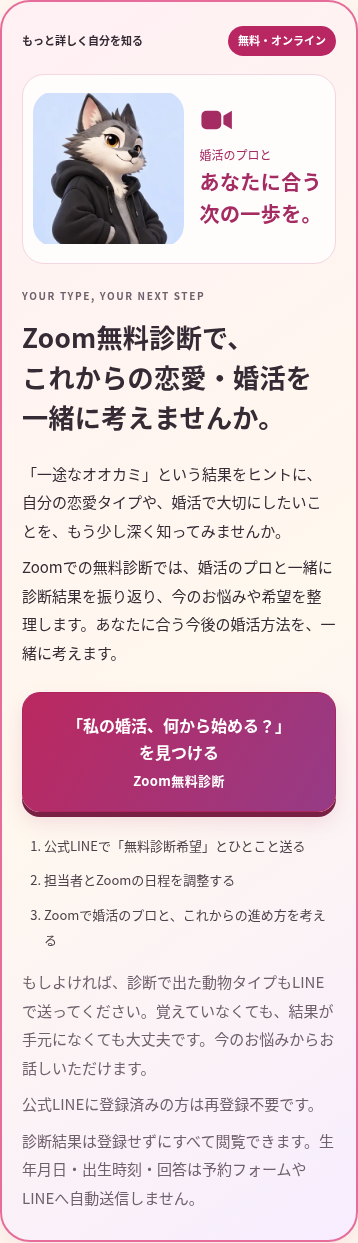
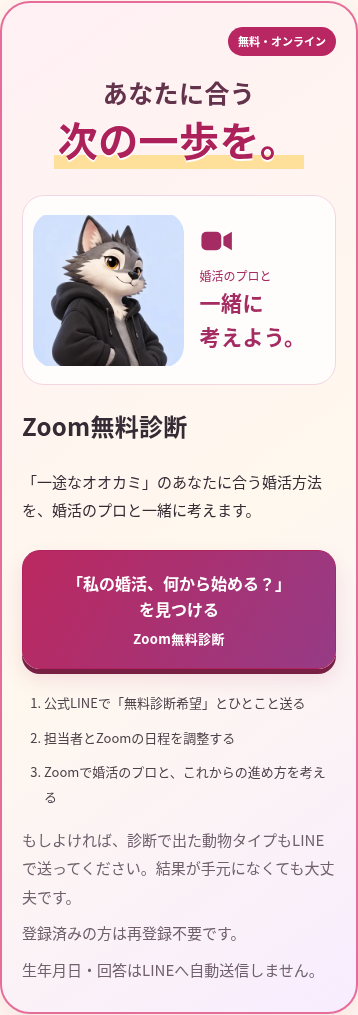
Emphasize next steps, apply supplied brand design and simplify result copy

diff --git a/index.html b/index.html
@@ -179,6 +179,17 @@ button:disabled{opacity:.55;cursor:default;box-shadow:none}
 .brand-tagline{display:block;margin-top:2px;font-size:10px;font-weight:700;line-height:1.5;letter-spacing:.01em;color:#292327;white-space:nowrap}
 .unic-brand-link .brand-lockup{width:160px;max-width:calc(100% - 48px);margin:0;flex:0 1 160px;min-width:0}
 .unic-brand-link .brand-tagline{font-size:7.5px}
+/* Clear visual emphasis for the two next-step messages. */
+.next-action-section{padding:26px 20px;border:2px solid #d8588b;border-radius:28px;background:linear-gradient(145deg,#fff0f4,#fff8e6 60%,#f5ebff);box-shadow:0 10px 28px #b035631a;color:#392a33}
+.next-action-label{display:inline-block;background:#b62765;color:white!important;border-radius:99px;padding:6px 13px;font-size:12px!important;font-weight:700;letter-spacing:.05em;margin-bottom:14px!important}
+.next-action-section>h2{padding:0;border:0;font-size:29px;line-height:1.55;color:#a5265e;letter-spacing:.015em;margin-bottom:18px;text-wrap:balance}
+.next-action-section .action{padding:22px 18px;border:0;border-radius:20px;background:#fffdfc;box-shadow:0 4px 0 #eed1dc}
+.next-action-section .action h3{font-size:27px;line-height:1.6;color:#562d47;font-weight:900;margin:0 0 16px;text-wrap:balance}
+.next-action-section .action p{font-size:15px;line-height:1.95;color:#58454f}.next-action-section>.soft{font-size:12px;line-height:1.9;color:#79616f;margin-top:18px}
+.zoom-next-title{text-align:center;margin:4px 0 22px;line-height:1.45;letter-spacing:.025em}.zoom-next-title>span{display:block;font-size:25px;font-weight:800;color:#63324b}.zoom-next-title>strong{display:inline-block;font-size:40px;font-weight:900;color:#ad215b;background:linear-gradient(transparent 72%,#ffe09a 72%,#ffe09a 94%,transparent 94%);padding:0 4px 5px;text-shadow:0 2px 0 white}
+.consult-card h3{font-size:24px;line-height:1.6}.zoom-speech strong{font-size:21px}.unic-brand-link .service-logo-image{display:block;width:100%;max-width:100%;height:auto;border-radius:8px}.unic-brand-link.service-brand-panel{display:block;padding:18px 12px;max-width:100%;min-height:100px;background:white}.unic-brand-link.service-brand-panel .brand-open{position:absolute;right:9px;bottom:9px;width:28px;height:28px;min-width:28px;font-size:18px}.unic-brand-link{position:relative}
+@media(max-width:350px){.next-action-section{padding:22px 15px}.next-action-section>h2{font-size:26px}.next-action-section .action{padding:20px 15px}.next-action-section .action h3{font-size:24px}.zoom-next-title>span{font-size:23px}.zoom-next-title>strong{font-size:34px}}
+.next-action-section>h2>span,.next-action-section>h2>strong{display:block}.next-action-section>h2>span{font-size:27px}.next-action-section>h2>strong{font-size:34px;line-height:1.5}.zoom-banner{justify-content:flex-end}
 </style></head>
 <body><div id="app"></div>
 <script src="site-config.js"></script>
@@ -617,7 +628,7 @@ function topMatches(u){
 }
 
 /* ===== UI ===== */
-const IMGS={"01": "assets/type-01.webp", "02": "assets/type-02.webp", "03": "assets/type-03.webp", "04": "assets/type-04.webp", "05": "assets/type-05.webp", "06": "assets/type-06.webp", "07": "assets/type-07.webp", "08": "assets/type-08.webp", "09": "assets/type-09.webp", "10": "assets/type-10.webp", "11": "assets/type-11.webp", "12": "assets/type-12.webp", "logo": "assets/logo.jpg"};
+const IMGS={"01": "assets/type-01.webp", "02": "assets/type-02.webp", "03": "assets/type-03.webp", "04": "assets/type-04.webp", "05": "assets/type-05.webp", "06": "assets/type-06.webp", "07": "assets/type-07.webp", "08": "assets/type-08.webp", "09": "assets/type-09.webp", "10": "assets/type-10.webp", "11": "assets/type-11.webp", "12": "assets/type-12.webp", "logo": "assets/logo.jpg", "serviceLogo": "assets/unic-meet-logo.webp"};
 Q.push({s:'SERVICE',d:'marriage',t:'結婚を希望する時期を教えてください。',options:['1年以内に結婚したい','2年以内に結婚したい','いずれ結婚したいが、急いでいない','まだ決めていない','今は結婚を希望していない']});
 Q.push({s:'SERVICE',d:'concern',t:'今の恋愛・婚活で、一番気になっていることは？',options:['同じ恋愛パターンを繰り返してしまう','自信や自分の魅力の伝え方に悩んでいる','新しい出会いを増やしたい','結婚に向けた進め方を相談したい','今は大きな悩みはなく、まず自分を知りたい']});
 const TYPE_ORDER=[0,2,3,5,6,9,10,21];
@@ -657,7 +668,7 @@ function intro(){
   <button class="btn" data-a="start">自分の恋愛・婚活タイプを診断する</button>
   <a class="btn line" target="_blank" rel="noopener" href="${lineHref(toolText())}">この診断をLINEで送る</a>
   <button class="btn ghost small" data-a="copytool">リンク文をコピー</button>
-  <p class="note">※この診断は、恋愛傾向を楽しく知るためのオリジナルコンテンツです。心理学的に検証された心理検査や、医学的・科学的診断ではありません。占い（四柱推命）も、未来や相性を断定するものではなく、自己理解のヒントとして使います。</p></div>`;
+  </div>`;
 }
 function quiz(){
   const pos=st.pos,qi=ORDER[pos],q=Q[qi],cur=st.ans[qi],choices=q.options||CHOICES;
@@ -680,9 +691,9 @@ function birthForm(){
   const b=st.birth||{};
   return `<div class="hero"><h1 class="catch" style="font-size:22px">STEP 1：生年月日を入力</h1><p class="lead">このあと、恋愛傾向・価値観8問と、結婚希望時期・現在のお悩み各1問に回答します。</p></div>
   <div class="form"><div class="row"><label for="bd">生年月日（西暦・月・日／必須）</label><input id="bd" type="date" required min="1900-01-01" aria-describedby="birth-purpose birth-error" value="${b.date||''}" max="${todayJST()}"></div>
-  <p id="birth-purpose" class="note">生年月日・出生時刻・出生地のタイムゾーンは四柱推命の補足に使用します。入力情報はこの画面のメモリ内でのみ扱い、サーバー送信・ブラウザ保存・共有URLへの記載は行いません。</p>
+  <p id="birth-purpose" class="note">生年月日・出生時刻は四柱推命に使用します。保存・送信はしません。</p>
   <div class="row"><label for="bt">出生時刻（任意）</label><input id="bt" type="time" value="${b.time||''}" ${b.noTime!==false?'disabled':''}><label class="chk"><input id="bn" type="checkbox" ${b.noTime!==false?'checked':''}> 不明</label></div>
-  <div class="row"><label for="bz">出生地のタイムゾーン</label><select id="bz">${[['Asia/Tokyo','日本（Asia/Tokyo）'],['Asia/Seoul','韓国（Asia/Seoul）'],['Asia/Shanghai','中国（Asia/Shanghai）'],['Asia/Taipei','台湾（Asia/Taipei）'],['America/New_York','ニューヨーク'],['America/Los_Angeles','ロサンゼルス'],['Europe/London','ロンドン'],['Europe/Paris','パリ'],['Australia/Sydney','シドニー'],['UTC','UTC'],['other','その他（IANA名を入力）']].map(([v,l])=>`<option value="${v}" ${v===(b.zone||'Asia/Tokyo')?'selected':''}>${l}</option>`).join('')}</select><input id="bz-other" type="text" placeholder="例：Pacific/Honolulu" aria-label="その他のタイムゾーン" style="display:none"></div><p class="note">出生地の時計の時刻を入力してください。夏時間は地域・日付に応じて計算します。出生時刻不明の場合は時柱を出さず、節入り当日は年柱・月柱の候補を表示します。動物タイプは質問への回答だけで決まります。</p>
+  <div class="row"><label for="bz">出生地のタイムゾーン</label><select id="bz">${[['Asia/Tokyo','日本（Asia/Tokyo）'],['Asia/Seoul','韓国（Asia/Seoul）'],['Asia/Shanghai','中国（Asia/Shanghai）'],['Asia/Taipei','台湾（Asia/Taipei）'],['America/New_York','ニューヨーク'],['America/Los_Angeles','ロサンゼルス'],['Europe/London','ロンドン'],['Europe/Paris','パリ'],['Australia/Sydney','シドニー'],['UTC','UTC'],['other','その他（IANA名を入力）']].map(([v,l])=>`<option value="${v}" ${v===(b.zone||'Asia/Tokyo')?'selected':''}>${l}</option>`).join('')}</select><input id="bz-other" type="text" placeholder="例：Pacific/Honolulu" aria-label="その他のタイムゾーン" style="display:none"></div><p class="note">出生地の時刻・タイムゾーンを選んでください。時刻が分からなければ「不明」で進めます。</p>
   <p id="birth-error" role="alert" style="color:#c43858;margin:12px 0"></p>
   <button class="btn" data-a="go">10問の質問へ進む</button></div>`;
 }
@@ -703,7 +714,7 @@ function axesHTML(D,c){
 }
 function shichuHTML(sh,c){
   const S=STEMS.find(s=>s.k===sh.stem),years=[...new Set(sh.candidates.map(p=>p.year))].join(' ／ '),months=[...new Set(sh.candidates.map(p=>p.month))].join(' ／ ');
-  return sec('四柱推命から見る、生まれ持った性質',`<div class="calendar-card"><p class="eyebrow">YOUR BIRTH CHART</p><div class="birth-pillars">${[['年柱',years],['月柱',months],['日柱',sh.day],['時柱',sh.hour||'不明']].map(([label,value])=>`<div><small>${label}</small><strong>${value}</strong></div>`).join('')}</div><div class="stem-reading"><span class="stem-sign">${sh.stem}</span><div><p class="eyebrow">日干 ${S.k} ／ ${S.el}・${S.img}</p><h3>${S.nature}</h3></div></div><p><b>恋愛で大切にしやすいもの</b><br>${S.wants}。</p><p><b>心がほどける関係</b><br>${S.safe}。</p><p class="soft">四柱推命の伝統的な日干の象意に基づく一般的な補足です。心理質問による動物タイプとは別の情報で、性格や未来を断定するものではありません。</p>${!sh.known?'<p class="soft">出生時刻は不明のため、時柱は推測していません。</p>':''}${sh.ambiguous?'<p class="boundary-note">出生時刻不明の節入り日、または夏時間で時刻が重なるため、年柱・月柱は候補を併記しています。出生時刻が分かると絞り込めます。</p>':''}<details class="calendar-details"><summary>計算の基準を見る</summary><p>年柱は立春、月柱は各節の到達時刻で切り替え、入力したタイムゾーン（${esc(sh.zone)}）で比較しています。日柱は出生地の日付の0時で切り替えます。時柱は出生地の時計の時刻から算出し、23時台の時干も当日の日干を使用します。真太陽時補正は行っていません。流派により結果が異なる場合があります。</p><p>暦計算：lunar-javascript 1.7.7／対応範囲1900〜2099年。節入りの計算精度や流派差により、境界のごく近くでは専門家による確認もご検討ください。</p></details></div>`,c);
+  return sec('四柱推命から見る、生まれ持った性質',`<div class="calendar-card"><p class="eyebrow">YOUR BIRTH CHART</p><div class="birth-pillars">${[['年柱',years],['月柱',months],['日柱',sh.day],['時柱',sh.hour||'不明']].map(([label,value])=>`<div><small>${label}</small><strong>${value}</strong></div>`).join('')}</div><div class="stem-reading"><span class="stem-sign">${sh.stem}</span><div><p class="eyebrow">日干 ${S.k} ／ ${S.el}・${S.img}</p><h3>${S.nature}</h3></div></div><p><b>恋愛で大切にしやすいもの</b><br>${S.wants}。</p><p><b>心がほどける関係</b><br>${S.safe}。</p>${!sh.known?'<p class="soft">出生時刻不明のため、時柱は推測していません。</p>':''}${sh.ambiguous?'<p class="boundary-note">年柱・月柱が切り替わる日です。候補を併記しています。</p>':''}<details class="calendar-details"><summary>計算の基準を見る</summary><p>年柱は立春、月柱は各節の到達時刻で切り替え、入力したタイムゾーン（${esc(sh.zone)}）で比較しています。日柱は出生地の日付の0時で切り替えます。時柱は出生地の時計の時刻から算出し、23時台の時干も当日の日干を使用します。真太陽時補正は行っていません。流派により結果が異なる場合があります。</p><p>暦計算：lunar-javascript 1.7.7／対応範囲1900〜2099年。節入りの計算精度や流派差により、境界のごく近くでは専門家による確認もご検討ください。</p></details></div>`,c);
 }
 function safeHttps(value){try{const u=new URL(value);return u.protocol==='https:'?u.href:'';}catch{return '';}}
 function esc(s){return String(s).replace(/[&<>"']/g,x=>({'&':'&amp;','<':'&lt;','>':'&gt;','"':'&quot;',"'":'&#39;'}[x]));}
@@ -715,12 +726,11 @@ function recommendation(ans){
 function actionHTML(r){
   const rec=r.recommendation;
   const advice={coaching:['恋愛パターンを整理する時間','気になっているパターンを、出来事・気持ち・行動に分けて振り返ってみましょう。'],confidence:['あなたの魅力を言葉にすること','得意なことや大切にしている価値観を、ひとつずつ書き出すところから始めてみませんか。'],event:['新しい出会いへの小さな一歩','安心して参加できるイベントを一つ探すなど、無理のない範囲で出会いを増やしてみましょう。'],marriage:['結婚に向けた具体的な計画','希望時期に向けて、出会い方や活動ペースを整理してみましょう。無理なく進められる順番を考えるところから始めてみましょう。'],consult:['自分に合った次の一歩を見つけること','急いで結論を出さず、今の気持ちを整理することから始めてみましょう。']}[rec.main];
-  const notes={coaching:'恋愛パターンのお悩みを選んだ回答からの提案です。',confidence:'自信や魅力の伝え方のお悩みを選んだ回答からの提案です。',event:'出会いを増やしたいという回答からの提案です。',marriage:'結婚希望時期と進め方のお悩みを選んだ回答からの提案です。',consult:'今回の希望時期・お悩みの回答を整理するための提案です。'};
-  return sec('今のあなたに必要なのは',`<div class="action"><h3>${advice[0]}</h3><p>${advice[1]}</p></div><p class="soft">${notes[rec.main]}性格や悩みを断定するものではありません。</p>`);
+  return `<section class="sec next-action-section"><h2><span>今のあなたに</span><strong>必要なのは</strong></h2><div class="action"><h3>${advice[0]}</h3><p>${advice[1]}</p></div></section>`;
 }
 function consultationHTML(){
  const t=st.res?T[st.res.type.n]:null,booking=safeHttps(CONFIG.BOOKING_URL),line=safeHttps(CONFIG.LINE_OA_URL),url=booking||line;
- return sec('自分の恋愛タイプを、もっと詳しく知りたい方へ',`<div class="consult-card"><div class="zoom-banner"><span>もっと詳しく自分を知る</span><b>無料・オンライン</b></div><div class="zoom-art"><div class="zoom-character">${im(t?t.id:'01','168px')}</div><div class="zoom-speech"><svg viewBox="0 0 48 36" aria-hidden="true"><rect x="2" y="5" width="28" height="26" rx="7" fill="currentColor"/><path d="M33 12l12-7v26l-12-7z" fill="currentColor"/></svg><p>婚活のプロと<br><strong>あなたに合う<br>次の一歩を。</strong></p></div></div><p class="eyebrow">YOUR TYPE, YOUR NEXT STEP</p><h3>Zoom無料診断で、<br>これからの恋愛・婚活を<br>一緒に考えませんか。</h3><p>${t?`「${esc(t.nm)}」という結果をヒントに、`:''}自分の恋愛タイプや、婚活で大切にしたいことを、もう少し深く知ってみませんか。</p><p>Zoomでの無料診断では、婚活のプロと一緒に診断結果を振り返り、今のお悩みや希望を整理します。あなたに合う今後の婚活方法を、一緒に考えます。</p>${url?`<a class="btn" data-role="zoom-consult" href="${esc(url)}" target="_blank" rel="noopener"><span class="cta-q">「私の婚活、何から始める？」</span><span class="cta-verb">を見つける</span><span class="cta-sub">Zoom無料診断</span></a>`:'<button class="btn" data-role="zoom-consult" disabled><span class="cta-q">「私の婚活、何から始める？」</span><span class="cta-verb">を見つける</span><span class="cta-sub">Zoom無料診断</span></button><p class="soft">無料診断の受付リンクは準備中です。</p>'}<ol class="line-steps"><li>${booking?'予約ページから、希望の日程を選ぶ':'公式LINEで「無料診断希望」とひとこと送る'}</li><li>担当者とZoomの日程を調整する</li><li>Zoomで婚活のプロと、これからの進め方を考える</li></ol><p class="soft">もしよければ、診断で出た動物タイプも${line?'LINEで送ってください':'教えてください'}。覚えていなくても、結果が手元になくても大丈夫です。今のお悩みからお話しいただけます。</p>${!booking?'<p class="soft">公式LINEに登録済みの方は再登録不要です。</p>':''}<p class="soft">診断結果は登録せずにすべて閲覧できます。生年月日・出生時刻・回答は予約フォームやLINEへ自動送信しません。</p></div>`);
+ return sec('自分の恋愛タイプを、もっと詳しく知りたい方へ',`<div class="consult-card"><div class="zoom-banner"><b>無料・オンライン</b></div><div class="zoom-next-title"><span>あなたに合う</span><strong>次の一歩を。</strong></div><div class="zoom-art"><div class="zoom-character">${im(t?t.id:'01','168px')}</div><div class="zoom-speech"><svg viewBox="0 0 48 36" aria-hidden="true"><rect x="2" y="5" width="28" height="26" rx="7" fill="currentColor"/><path d="M33 12l12-7v26l-12-7z" fill="currentColor"/></svg><p>婚活のプロと<br><strong>一緒に<br>考えよう。</strong></p></div></div><h3>Zoom無料診断</h3><p>${t?`「${esc(t.nm)}」のあなたに合う`: 'あなたに合う'}婚活方法を、婚活のプロと一緒に考えます。</p>${url?`<a class="btn" data-role="zoom-consult" href="${esc(url)}" target="_blank" rel="noopener"><span class="cta-q">「私の婚活、何から始める？」</span><span class="cta-verb">を見つける</span><span class="cta-sub">Zoom無料診断</span></a>`:'<button class="btn" data-role="zoom-consult" disabled><span class="cta-q">「私の婚活、何から始める？」</span><span class="cta-verb">を見つける</span><span class="cta-sub">Zoom無料診断</span></button><p class="soft">無料診断の受付リンクは準備中です。</p>'}<ol class="line-steps"><li>${booking?'予約ページから、希望の日程を選ぶ':'公式LINEで「無料診断希望」とひとこと送る'}</li><li>担当者とZoomの日程を調整する</li><li>Zoomで婚活のプロと、これからの進め方を考える</li></ol><p class="soft">もしよければ、診断で出た動物タイプも${line?'LINEで送ってください':'教えてください'}。結果が手元になくても大丈夫です。</p>${!booking?'<p class="soft">登録済みの方は再登録不要です。</p>':''}<p class="soft">生年月日・回答はLINEへ自動送信しません。</p></div>`);
 }
 function compatPanel(u,j){
   const c=compat(u,j),t=T[j],C=CONF[c.low];
@@ -738,23 +748,23 @@ function resultHTML(){
   <div class="you">あなたは</div><h1>${t.e} ${t.nm}</h1><span class="kind">${t.kind}</span>
   <p class="cc">${t.catch}</p><div class="tags">${t.tags.map(x=>`<span>#${x}</span>`).join('')}</div>
   <p class="sub-type">あなたの中には「${sub.e} ${sub.nm}」の要素もあります</p></div>
-  <p class="note">回答から見える傾向の参考情報です。10問での診断精度は未検証で、性格や相性を断定するものではありません。</p>`;
+  `;
   h+=sec('LOVE TYPE 解説',`<p>${t.desc}</p><div class="box" style="margin-top:10px"><h3>付き合った後の特徴</h3><p>${t.after}</p><h3 style="margin-top:10px">相手からどう見られやすいか</h3><p>${t.seen}</p></div>`,c);
   h+=sec('あなたの恋愛の強み',`<div class="box">${ul(t.str)}</div>`,c);
   h+=sec('あなたの恋愛のクセ',`<div class="box">${ul(t.habit)}</div><div class="box"><h3>本人が気づきにくいクセ</h3><p>${t.unnoticed}</p></div>`,c);
 
 
   h+=sec('惹かれやすい相手',`<div class="box"><p>${t.attract}</p></div>`,c);
-  h+=sec('長期的な関係を築きやすい相手',`<div class="box"><p>${t.long}</p></div><p class="soft">惹かれやすい相手と、長く安心できる相手は、必ずしも同じではありません。</p>`,c);
+  h+=sec('長期的な関係を築きやすい相手',`<div class="box"><p>${t.long}</p></div>`,c);
   h+=sec('恋愛・結婚で注意したいこと',`<div class="box"><h3>苦戦しやすい相手</h3><p>${t.hard}</p><h3 style="margin-top:10px">結婚生活で大切にすること</h3><p>${t.marry}</p><h3 style="margin-top:10px">婚活で気をつけるポイント</h3><p>${t.kon}</p></div><div class="box"><h3>おすすめの最初の一歩</h3><p>${t.act}</p></div>`,c);
-  h+=sec('会話が合う人・違いを補い合える人',`<p class="soft">以下は動物タイプの一般的な特徴を比較した参考情報です。今回質問していないコミュニケーションの軸を個別に測定したものではありません。</p>`+matchList(M.talk,'話が合いやすいタイプ')+matchList(M.val,'価値観が近いタイプ')+matchList(M.comp,'自分と違うけれど、補い合いやすいタイプ')+`<p class="soft">相性は点数で決まるものではありません。「違い」は、知っていれば魅力にもなります。</p>`,c);
+  h+=sec('会話が合う人・違いを補い合える人',`<p class="soft">タイプの特徴から見た相性のヒントです。</p>`+matchList(M.talk,'話が合いやすいタイプ')+matchList(M.val,'価値観が近いタイプ')+matchList(M.comp,'自分と違うけれど、補い合いやすいタイプ'),c);
   h+=sec('気になるタイプとの相性をチェック',`<div class="ptable" id="pt">${T.map((x,j)=>`<button data-a="pick" data-j="${j}">${im(x.id)}<span>${AN[j]}</span></button>`).join('')}</div><div id="cmp"><p class="soft">タイプを選ぶと、会話・愛情表現・距離感・スピード・価値観を比べられます。</p></div>`,c);
   h+=shichuHTML(sh,c);
   h+=actionHTML(r);
   h+=consultationHTML();
-  h+=sec('診断結果をシェアする',`<a class="btn line" target="_blank" rel="noopener" href="${lineHref(resText(t))}">LINEで友だちに結果を送る</a><a class="btn ghost small" target="_blank" rel="noopener" href="${lineHref(toolText())}">診断そのものを友だちに送る</a><p class="soft">送る相手はLINEの画面で選べます。生年月日や個別の回答は共有しません。</p><button class="btn" data-a="instagram">Instagramでシェア</button><p class="soft">ストーリーズ用画像を作成します。Instagramへ自動投稿はしません。</p><div id="story-output" aria-live="polite"></div>`);
+  h+=sec('診断結果をシェアする',`<a class="btn line" target="_blank" rel="noopener" href="${lineHref(resText(t))}">LINEで友だちに結果を送る</a><a class="btn ghost small" target="_blank" rel="noopener" href="${lineHref(toolText())}">診断そのものを友だちに送る</a><p class="soft">生年月日や回答は共有しません。</p><button class="btn" data-a="instagram">Instagramでシェア</button><p class="soft">ストーリーズ用画像を作成します。Instagramへ自動投稿はしません。</p><div id="story-output" aria-live="polite"></div>`);
   h+=serviceLink();
-  h+=`<button class="btn ghost small" style="margin-top:24px" data-a="retry">もう一度診断する</button><p class="foot">unic MEET ／ あなたの恋愛・婚活は何タイプ？<br>※本診断は心理検査・医学的診断ではなく、自己理解のためのエンターテインメントです。</p>`;
+  h+=`<button class="btn ghost small" style="margin-top:24px" data-a="retry">もう一度診断する</button><p class="foot">unic MEET ／ あなたの恋愛・婚活は何タイプ？<br>自己理解のためのタイプ診断です。</p>`;
   return h;
 }
 
@@ -809,7 +819,7 @@ function onClick(e){
   }
 }
 
-function serviceLink(){return `<section class="sec unic-about"><span class="about-tag">あなたらしい一歩を応援</span><a class="unic-brand-link" data-role="service-logo" href="https://quiet-pasca-d4a0c0.netlify.app/" target="_blank" rel="noopener" aria-label="unic MEETのサービス紹介を開く">${brandLogo()}<span class="brand-open" aria-hidden="true">↗</span></a><h2>恋愛も、婚活も。<br>あなたらしい一歩を。</h2><p>unic MEETは、恋愛・婚活の悩みや「これからどう進めたい？」に向き合うきっかけを届けます。あなたの一歩を支えるサービスを、紹介ページでご覧ください。</p><a class="btn service-cta" data-role="service-cta" href="https://quiet-pasca-d4a0c0.netlify.app/" target="_blank" rel="noopener"><span>unicのサービスを詳しく見る</span><b aria-hidden="true">→</b></a></section>`;}
+function serviceLink(){return `<section class="sec unic-about"><a class="unic-brand-link service-brand-panel" data-role="service-logo" href="https://quiet-pasca-d4a0c0.netlify.app/" target="_blank" rel="noopener" aria-label="unic MEETのサービス紹介を開く"><img class="service-logo-image" src="${IMGS.serviceLogo}" width="2172" height="724" alt="unic MEET — 魅力を磨く。出会いを育む。"><span class="brand-open" aria-hidden="true">↗</span></a><h2>恋愛も、婚活も。<br>あなたらしい一歩を。</h2><p>あなたの恋愛・婚活を支えるサービスをご紹介します。</p><a class="btn service-cta" data-role="service-cta" href="https://quiet-pasca-d4a0c0.netlify.app/" target="_blank" rel="noopener"><span>unicのサービスを詳しく見る</span><b aria-hidden="true">→</b></a></section>`;}
 function parseShared(search){
   const p=new URLSearchParams(search);if(!p.has('type')&&!p.has('sub'))return null;
   if(p.getAll('type').length!==1||p.getAll('sub').length!==1)return {invalid:true};
@@ -822,7 +832,7 @@ function sharedHTML(){
   const t=T[r.type],sub=T[r.sub];
   return `<p class="note">共有された結果です。あなた自身を診断した結果ではありません。</p><div class="res-hero" style="--c:${t.c}"><div class="pic">${im(t.id,'240px')}</div><h1>${t.e} ${t.nm}</h1><p>${t.catch}</p><p class="sub-type">サブタイプ：${sub.e} ${sub.nm}</p></div>`+
   sec('LOVE TYPE 解説',`<p>${t.desc}</p><p>${t.after}</p>`)+sec('恋愛の強み',ul(t.str))+sec('恋愛のクセ・注意点',ul(t.habit)+`<p>${t.unnoticed}</p><p>${t.hard}</p>`)+sec('相性のヒント',`<p>${t.long}</p><p>${t.marry}</p>`)+sec('サブタイプの解説',`<h3>${sub.nm}</h3><p>${sub.desc}</p>`)+
-  `<p class="note">タイプ別の一般的な解説です。送信者の生年月日・回答・個人的な鑑定やおすすめは共有していません。</p><button class="btn" style="margin-top:20px" data-a="start">自分も診断する</button>`+serviceLink();
+  `<button class="btn" style="margin-top:20px" data-a="start">自分も診断する</button>`+serviceLink();
 }
 
 if(typeof document!=='undefined'&&document.getElementById('app')){

diff --git a/story.js b/story.js
@@ -7,10 +7,12 @@ async function makeStory(){
   const ctx=canvas.getContext('2d');if(!ctx)throw Error('Canvas unavailable');
   if(document.fonts)await document.fonts.ready;
   const img=new Image();img.src=IMGS[type.id];await img.decode();
+  const logo=new Image();logo.src=IMGS.serviceLogo;await logo.decode();
   ctx.fillStyle='#FFF8F1';ctx.fillRect(0,0,1080,1920);
   ctx.fillStyle=type.c;ctx.globalAlpha=.2;ctx.beginPath();ctx.arc(970,80,420,0,Math.PI*2);ctx.fill();ctx.beginPath();ctx.arc(50,1750,360,0,Math.PI*2);ctx.fill();ctx.globalAlpha=1;
-  ctx.fillStyle='#2B2430';ctx.textAlign='center';ctx.font='bold 74px sans-serif';ctx.fillText('unic MEET',540,170);
-  ctx.font='bold 32px sans-serif';ctx.fillText('恋愛・婚活タイプ診断',540,232);
+  ctx.textAlign='center';
+  const lr=Math.min(900/logo.naturalWidth,210/logo.naturalHeight),lw=logo.naturalWidth*lr,lh=logo.naturalHeight*lr;ctx.drawImage(logo,(1080-lw)/2,35,lw,lh);
+  ctx.fillStyle='#2B2430';ctx.font='bold 30px sans-serif';ctx.fillText('恋愛・婚活タイプ診断',540,270);
   ctx.fillStyle='#fff';ctx.beginPath();ctx.roundRect(90,300,900,1030,64);ctx.fill();
   // Draw the full, individually generated 1254px illustration without cropping.
   const ratio=Math.min(640/img.naturalWidth,670/img.naturalHeight),w=img.naturalWidth*ratio,h=img.naturalHeight*ratio;

diff --git a/README.md b/README.md
@@ -6,6 +6,9 @@
 ロゴのキャッチコピーを「自分を知ると、もっとうまくいく。」、所要時間表示を「1分で完了」に変更。元のロゴ画像の旧コピー部分を表示範囲から外し、HTMLで新コピーを表示します。質問数は10問のまま。
 題名を「あなたの恋愛・婚活は何タイプ？」へ統一。Zoom案内は結果の動物画像・無料バッジ・大きなCTA付きのカードに変更。下部のunic MEET紹介は、押せるロゴと大きなサービスボタンを設置。320〜1440pxで横はみ出しと44px以上のタッチ領域を確認。
 
+## 強調表示と文章整理
+「今のあなたに必要なのは」「あなたに合う次の一歩を。」を大きく強調。指定の精度に関する注意書き・重複説明を削除し、Zoom案内を短縮。入力情報の用途・保存有無、動物の送信が任意であること、共有結果の区別は残しています。サービス紹介とInstagram画像のロゴは、添付デザインをWeb用に整えたassets/unic-meet-logo.webpを使用。トップの診断ロゴ・「自分を知ると、もっとうまくいく。」は維持。
+
 ## 現在の導線
 - 主ボタンは「『私の婚活、何から始める？』を見つける」。Zoom無料診断と併記。LINEへ「無料診断希望」の一言で受付でき、動物タイプは任意。
 - 婚活の進め方のヒントを探す10問の無料タイプ診断。8問で動物、残り2問で次の一歩の参考を表示。

diff --git a/改修報告.md b/改修報告.md
@@ -1,5 +1,13 @@
 # 2026-10-30 改修報告
 
+## 最新の強調・省文変更
+- 「今のあなたに必要なのは」を太字・大きな文字と背景で強調。
+- 「あなたに合う次の一歩を。」をZoom案内の全幅の大見出しに変更。
+- unic MEETのサービス紹介・Instagram画像に指定ロゴデザインを使用。
+- 指定の「回答から見える傾向の参考情報／10問での精度は未検証」を削除。重複した説明・補足も短縮。
+- 個人情報の用途・保存の案内、動物の送信が任意であること、共有結果の表示は維持。
+- 表示・LINE受付・Instagram画像生成／保存・320〜1440px幅を確認。
+
 ## 見た目の更新
 - 題名・共有紹介文を「あなたの恋愛・婚活は何タイプ？」へ変更。
 - Zoom無料診断のカードを大きくし、本人の動物タイプの画像・ビデオアイコン・無料バッジを表示。LINEの受付先は維持。
